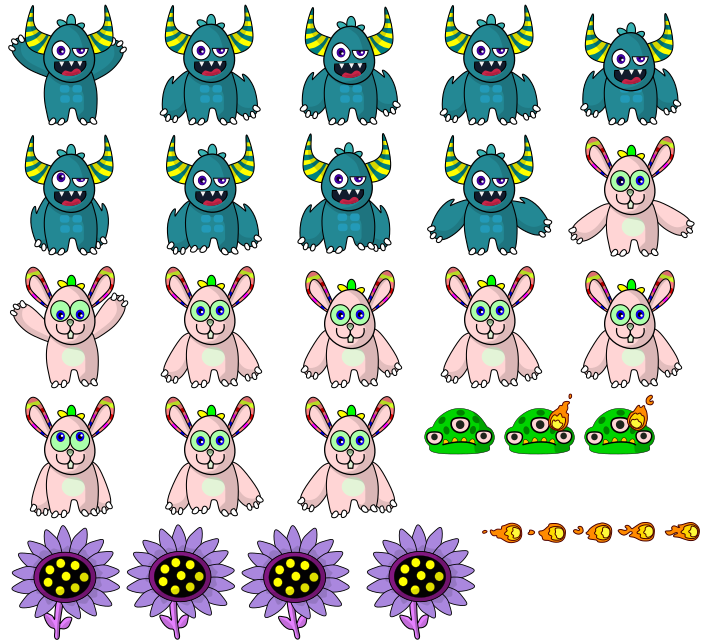
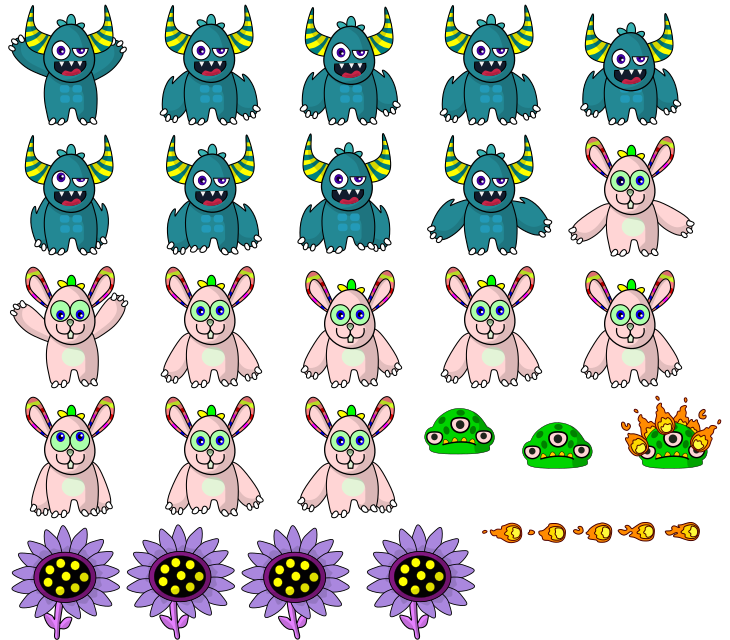
Mejor mecanica de matar bicho.

diff --git a/src/prefabs/EnemyPrefab.ts b/src/prefabs/EnemyPrefab.ts
@@ -91,7 +91,6 @@ export default class EnemyPrefab extends ArcadeSpritePrefab {
 			duration: 500,
 			x: "-=40",
 			y: "-=40",
-			scale: 0.8,
 			onComplete: () => this.destroy()
 		});
 	}
